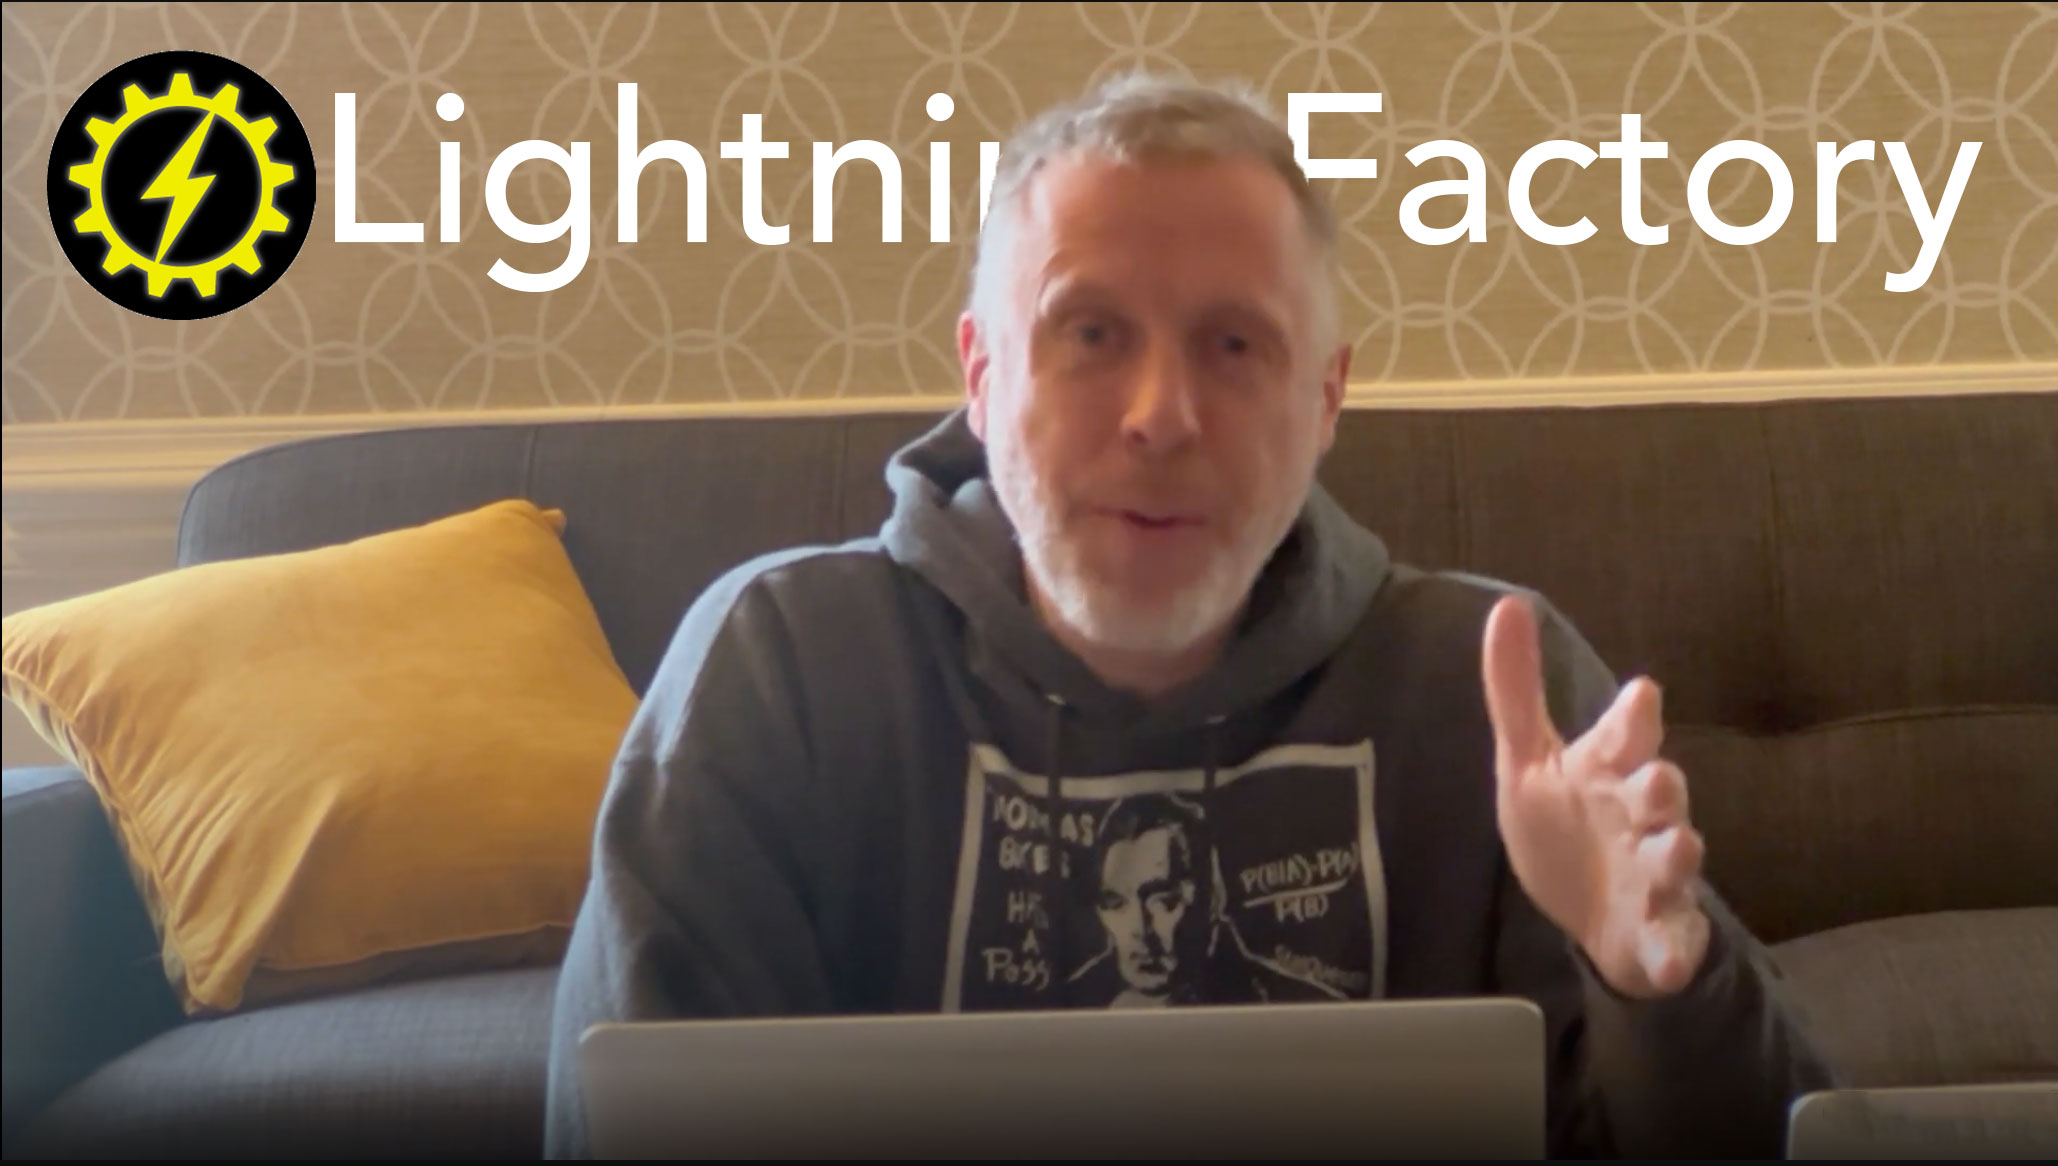
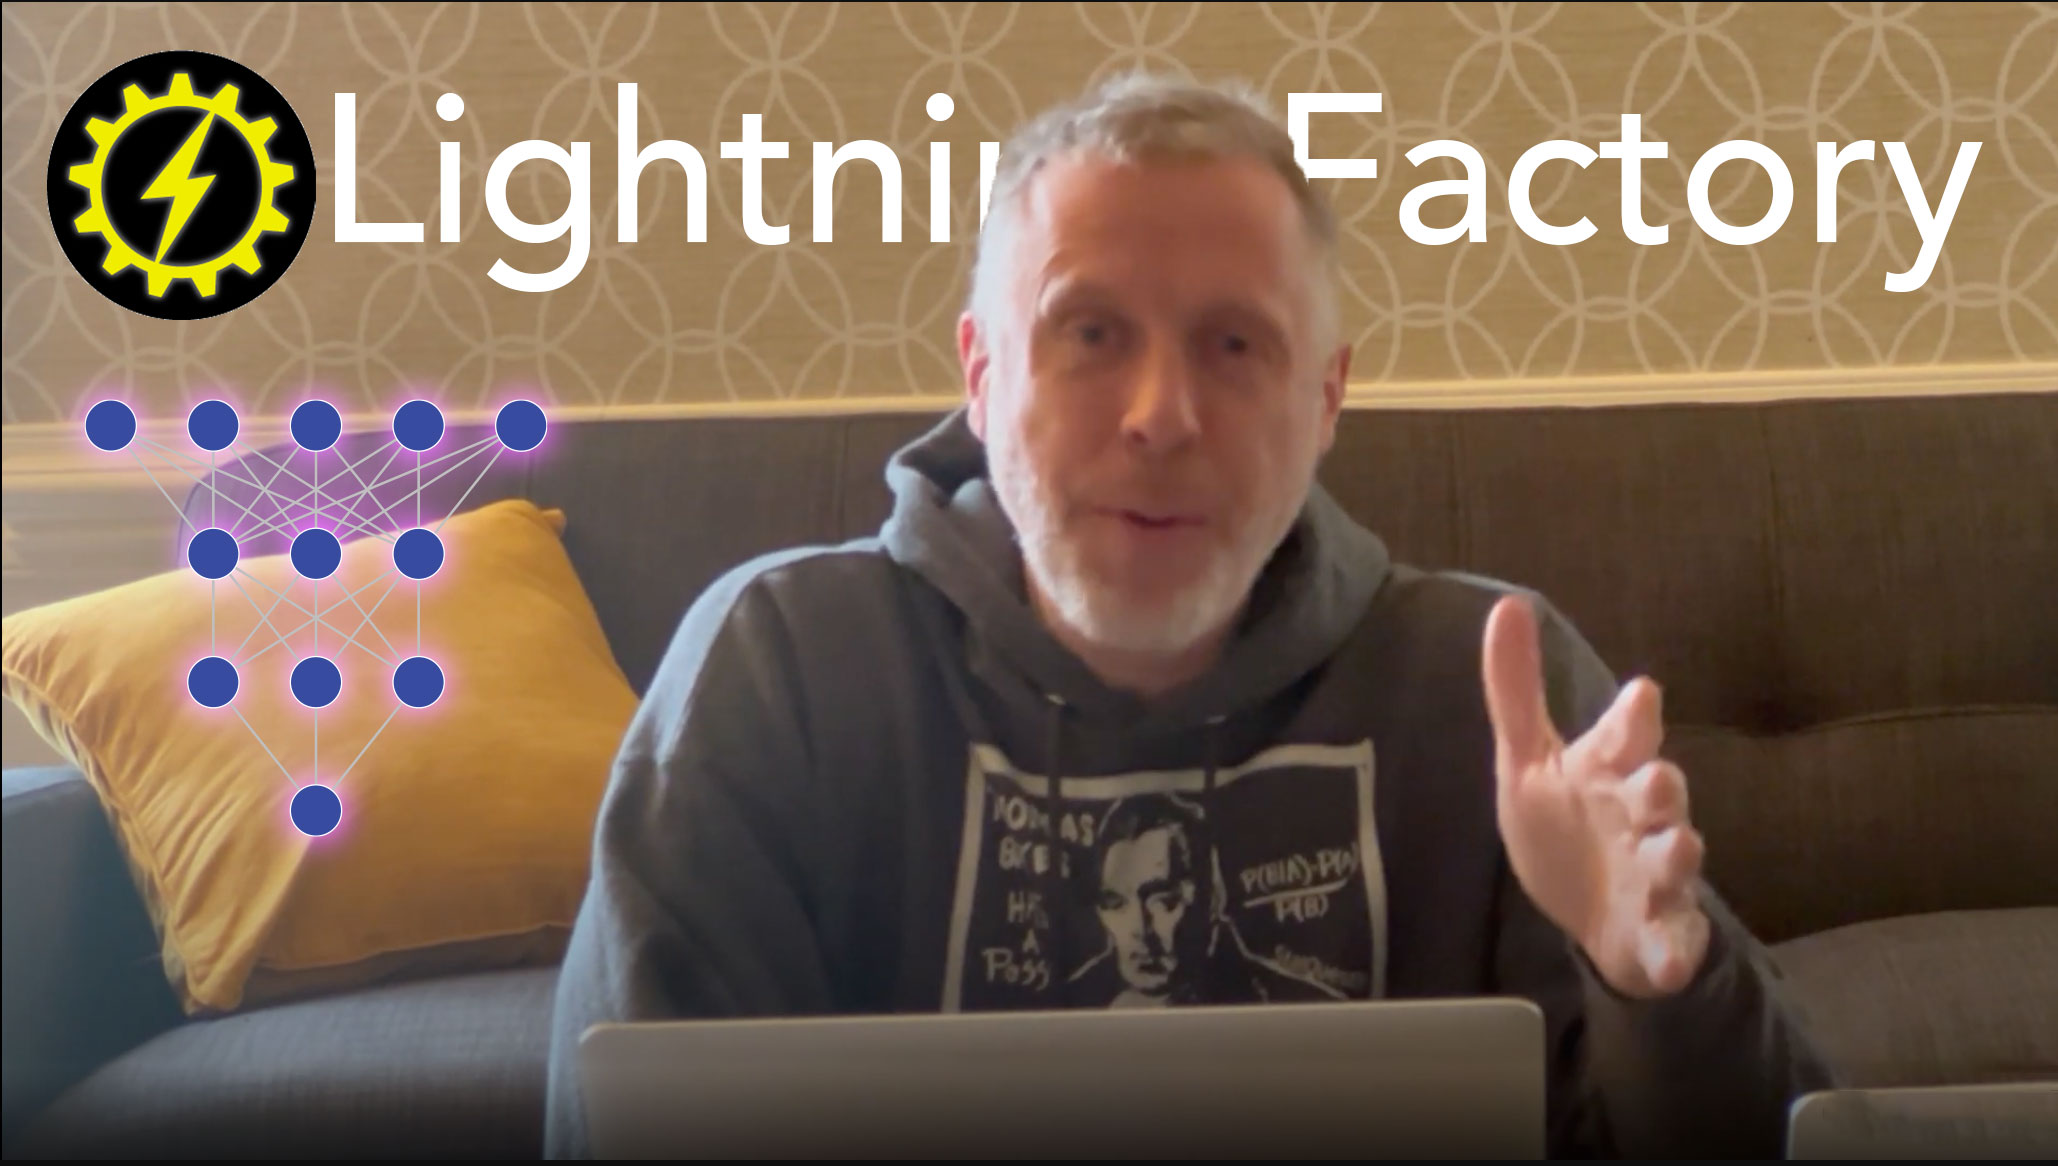
updating readme, video thumbnail

Changed region(s): [[0.0311, 0.3087, 0.2799, 0.741]]

diff --git a/setup.py b/setup.py
@@ -6,7 +6,7 @@ with open('requirements.txt') as f:
 
 setup(
     name='lightning_factory',
-    version='0.1.2',
+    version='0.1.3',
     author='Brian Risk',
     author_email='brian@d.at',
     packages=find_packages(),  # This will automatically find packages in the directory

diff --git a/README.md b/README.md
@@ -46,6 +46,7 @@ model2 = lf.ffnn(layers=[5,8,4,2,1], activation_function=ActivationFunction.Tanh
 ## Full example of building, training, testing and predicting
 
 ### Video tutorial
+Example stock data for training used in the tutorial: [Download](https://d.at/example-data)
 
 [![Lightning Factory Video Tutorial](https://raw.githubusercontent.com/brianrisk/lightning_factory/master/images/lightning-factory-video-thumbnail.jpg?raw=true)](https://youtu.be/7zqJZopgQSs?si=rxJkMyNF0o7VITd5)
 
